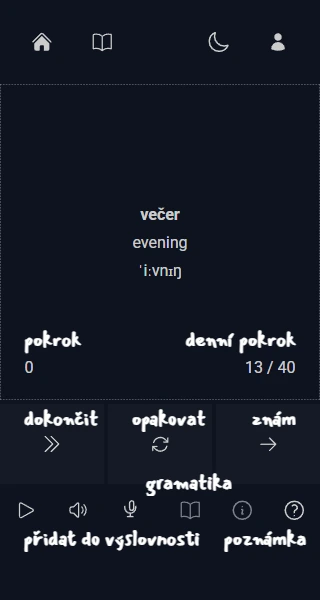
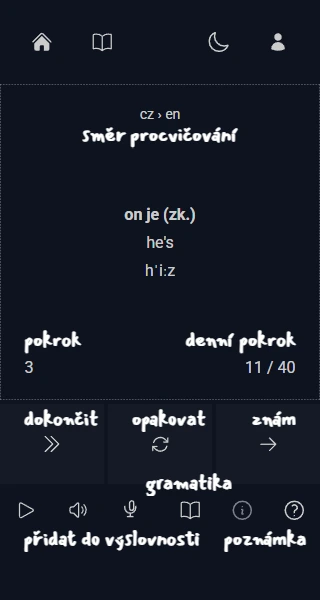
refactor: update HelpText and Screenshot with new direction flag

diff --git a/frontend/src/features/practice/PracticeSessionCard.tsx b/frontend/src/features/practice/PracticeSessionCard.tsx
@@ -100,7 +100,12 @@ function TopBarPrimaryContent({
 
   if (isPronunciationPractice) return null;
 
-  return <p className="text-sm font-light">{shortDirectionText}</p>;
+  return (
+    <div className="relative">
+      <p className="text-sm font-light">{shortDirectionText}</p>
+      <HelpText className="top-4 left-1/2 -translate-x-1/2">{TEXTS.directionHelpText}</HelpText>
+    </div>
+  );
 }
 
 function PracticeControls({
@@ -119,12 +124,7 @@ function PracticeControls({
     usePointerReleaseLock();
 
   if (!revealed) {
-    return (
-      <HintButton
-        onClick={plusHint}
-        disabled={showDirectionChange || isSkipGestureLocked}
-      />
-    );
+    return <HintButton onClick={plusHint} disabled={showDirectionChange || isSkipGestureLocked} />;
   }
 
   if (isPronunciationPractice) {
@@ -199,13 +199,9 @@ export default function PracticeSessionCard({
   const cardText = revealed ? undefined : TEXTS.reveal;
   const cardStyle = revealed ? 'color-audio-disabled' : 'color-button';
   const directionText = isCzToEn ? TEXTS.directionCzToEn : TEXTS.directionEnToCz;
-  const shortDirectionText = isCzToEn
-    ? TEXTS.directionCzToEnShort
-    : TEXTS.directionEnToCzShort;
+  const shortDirectionText = isCzToEn ? TEXTS.directionCzToEnShort : TEXTS.directionEnToCzShort;
   const showAudioControls = !audioDisabled;
-  const showGrammarButton = Boolean(
-    revealed && (grammar?.note?.trim() || grammar?.items.length),
-  );
+  const showGrammarButton = Boolean(revealed && (grammar?.note?.trim() || grammar?.items.length));
   const showNoteButton = Boolean(revealed && note?.note.trim());
   const audioControlsDisabled =
     !showAudioControls || showDirectionChange || audioLoading || (isCzToEn && !revealed);
@@ -238,7 +234,7 @@ export default function PracticeSessionCard({
           aria-disabled={revealed}
         >
           {!revealed && !showDirectionChange && (
-            <HelpText className="top-17 left-1/2 -translate-x-1/2">{TEXTS.reveal}</HelpText>
+            <HelpText className="top-23 left-1/2 -translate-x-1/2">{TEXTS.reveal}</HelpText>
           )}
           <div id="top-bar" className="relative grid h-14 w-full grid-rows-2 text-center">
             <div className="flex min-h-0 items-center justify-center">

diff --git a/frontend/src/locales/cs/practice.ts b/frontend/src/locales/cs/practice.ts
@@ -16,6 +16,7 @@ export const PRACTICE_TEXTS = {
   directionCzToEn: 'Z češtiny do angličtiny',
   directionEnToCzShort: 'en › cz',
   directionCzToEnShort: 'cz › en',
+  directionHelpText: 'směr procvičování',
   skipHoldInfoToast: 'Pro dokončení položky podržte tlačítko.',
   skipSuccessToast: 'Položka byla dokončena.',
   skipErrorToast: 'Dokončení položky se nezdařilo.',
